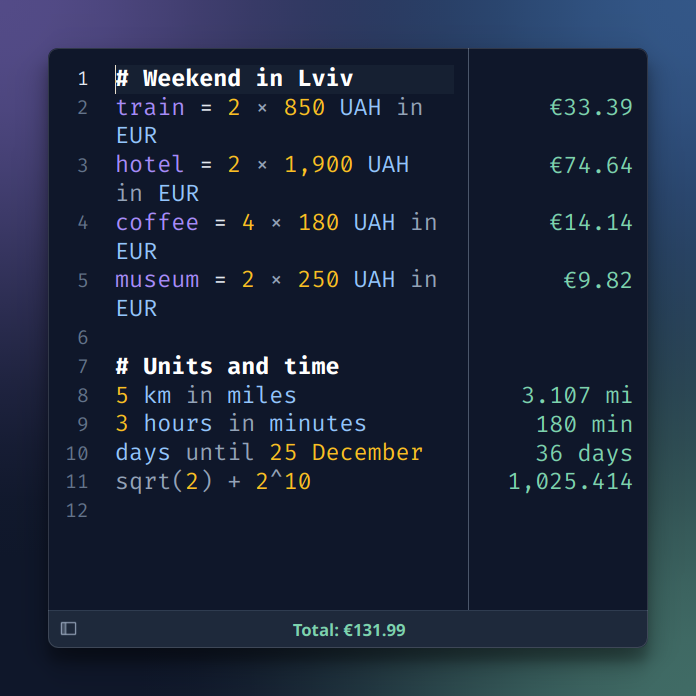
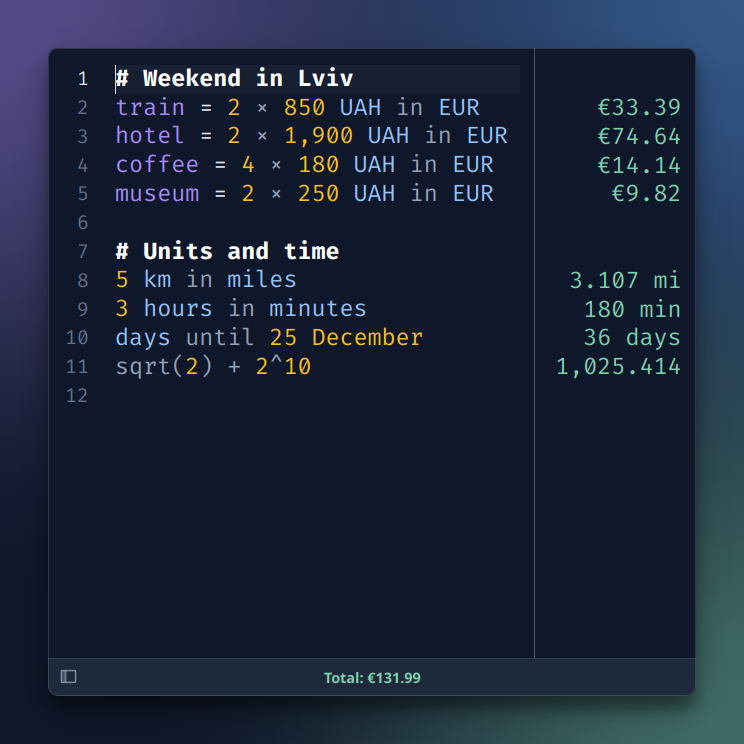
fix(previews): keep editor lines on one row in the small screenshot
Widen the square window and move the results divider to the right so
all editor lines and values fit. Regenerate the small screenshot.

diff --git a/scripts/make_gif.py b/scripts/make_gif.py
@@ -152,10 +152,10 @@ SHOTS = [
         "en",
         "Short.txt",
         SHORT,
-        size=(500, 500),
+        size=(540, 540),  # room for the full hotel line
         focus=True,
-        results_width=150,
-        picture=(696, 696),  # the 600 px window at full size, with MARGIN on every side
+        results_width=135,
+        picture=(744, 744),  # the 648 px window at full size, with MARGIN on every side
     ),
 ]
 
